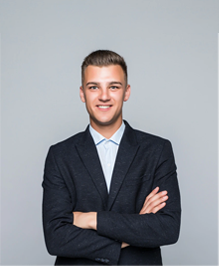
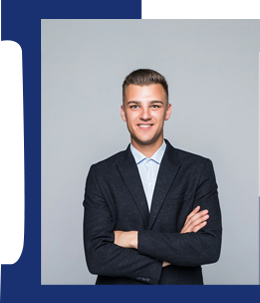
Updated about page

diff --git a/about.html b/about.html
@@ -179,14 +179,11 @@
           <h2>Our Team</h2>
           <div class="border-bottom"></div>
         </div>
-        <div class="row my-5 pt-2">
+        <div class="row justify-content-center my-5 pt-2">
           <div class="col-md-6 col-lg-3">
             <div class="team-card">
-              <div class="team-img position-relative">
+              <div class="team-img">
                 <img src="img/team.png" alt="team" class="img-fluid" />
-                <div class="team-shape">
-                  <img src="img/team-shape.png" alt="team-shape" />
-                </div>
               </div>
               <h3>Lorem Ipsum</h3>
               <p>Dolor Sit amet</p>
@@ -194,11 +191,8 @@
           </div>
           <div class="col-md-6 col-lg-3">
             <div class="team-card">
-              <div class="team-img position-relative">
+              <div class="team-img">
                 <img src="img/team.png" alt="team" class="img-fluid" />
-                <div class="team-shape">
-                  <img src="img/team-shape.png" alt="team-shape" />
-                </div>
               </div>
               <h3>Lorem Ipsum</h3>
               <p>Dolor Sit amet</p>
@@ -206,11 +200,8 @@
           </div>
           <div class="col-md-6 col-lg-3">
             <div class="team-card">
-              <div class="team-img position-relative">
+              <div class="team-img">
                 <img src="img/team.png" alt="team" class="img-fluid" />
-                <div class="team-shape">
-                  <img src="img/team-shape.png" alt="team-shape" />
-                </div>
               </div>
               <h3>Lorem Ipsum</h3>
               <p>Dolor Sit amet</p>
@@ -218,11 +209,8 @@
           </div>
           <div class="col-md-6 col-lg-3">
             <div class="team-card">
-              <div class="team-img position-relative">
+              <div class="team-img">
                 <img src="img/team.png" alt="team" class="img-fluid" />
-                <div class="team-shape">
-                  <img src="img/team-shape.png" alt="team-shape" />
-                </div>
               </div>
               <h3>Lorem Ipsum</h3>
               <p>Dolor Sit amet</p>

diff --git a/style.css b/style.css
@@ -32,6 +32,7 @@ nav .nav-link {
   font-family: "financer", sans-serif;
   font-weight: 300;
   font-size: 1.1rem;
+  transition: all 0.5s ease;
 }
 
 nav .con-btn {
@@ -39,19 +40,18 @@ nav .con-btn {
   background: #7283e5;
   padding: 0.5em 1em !important;
   border-radius: 2em;
-  color: white;
+  color: white !important;
   font-weight: bold;
   transition: 0.5s all ease;
+}
+
+nav .nav-link:hover {
+  color: #193071 !important;
 }
 
 nav .con-btn:hover {
   color: white !important;
   background: #193071;
-}
-
-nav .nav-link:hover {
-  color: #193071;
-  font-weight: bold;
 }
 
 .navbar-toggler span {
@@ -988,6 +988,11 @@ About Page CSS
   text-decoration: none;
   padding: 0.85rem 1.5rem;
   border-radius: 0.5rem;
+  transition: all 0.3s ease-in-out;
+}
+
+.view-btn a:hover {
+  background: #7283e5;
 }
 
 /* Our Mission Section CSS Start */
@@ -1069,13 +1074,6 @@ About Page CSS
   z-index: 1;
 }
 
-.team-shape {
-  position: absolute;
-  top: -38px;
-  left: -42px;
-  z-index: -1;
-}
-
 .team-card h3 {
   font-family: "financer", sans-serif;
   font-size: 1.6rem;
@@ -1083,7 +1081,6 @@ About Page CSS
   text-align: center;
   color: #193071;
   padding-top: 0.5rem;
-  margin-left: -100px;
 }
 
 .team-card p {
@@ -1091,7 +1088,6 @@ About Page CSS
   font-size: 1.1rem;
   text-align: center;
   color: #242424;
-  margin-left: -100px;
 }
 
 /* Principle Section CSS Start */
@@ -1178,6 +1174,16 @@ About Page CSS
 
 /* Principle Section CSS End */
 
+@media (min-width: 992px) and (max-width: 1400px) {
+  .vision,
+  .mission {
+    padding-right: 250px;
+  }
+  .our-mission-content h2 {
+    top: 160px;
+  }
+}
+
 @media screen and (max-width: 767px) {
   .about-hero div h2 {
     font-size: 2.5rem;
@@ -1239,20 +1245,6 @@ About Page CSS
 
   .team-card {
     text-align: center;
-  }
-
-  .team-shape {
-    left: 1rem;
-  }
-
-  .team-card h3 {
-    font-size: 1.5rem;
-    margin-left: -0px;
-  }
-
-  .team-card p {
-    font-size: 1rem;
-    margin-left: -0px;
   }
 
   .principle {
